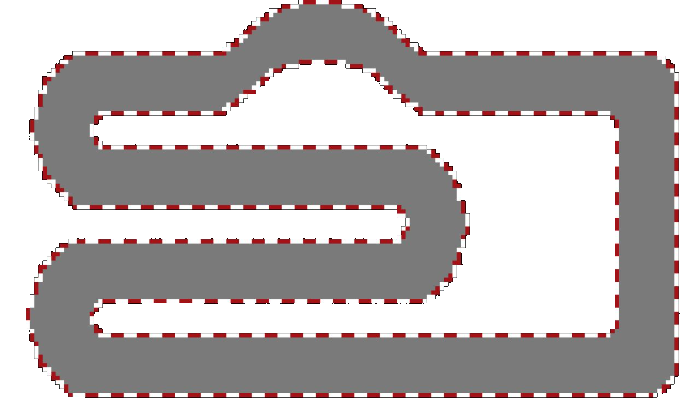
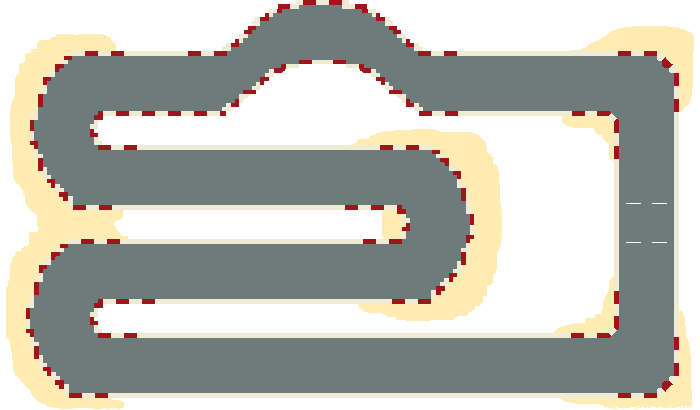
threads implemented and map updates

Changed region(s): [[0.0, 0.0, 1.0, 1.0], [0.12, 0.1463, 0.9, 0.8488]]

diff --git a/Corte 3/race_game_pygame/game_info.py b/Corte 3/race_game_pygame/game_info.py
@@ -1,4 +1,8 @@
-import time
+import time, sys, random, paths
+from player_car import PlayerCar
+from computer_car import ComputerCar
+from settings import *
+from utils import blit_text_center
 
 class GameInfo:
     LEVELS = 3
@@ -7,6 +11,20 @@ class GameInfo:
         self.level = level
         self.started = False
         self.level_start_time = 0
+
+        self.player_car = PlayerCar(CAR1, CAR1_POS, 6,4)
+
+        type_path = random.randint(0,3)
+        self.computer_car = ComputerCar(self, CAR2, CAR2_POS, 2, 4, paths.PATHS_LV1[type_path])
+        self.computer_car.start()
+
+        type_path = random.randint(0,3)
+        self.computer_car2 = ComputerCar(self, CAR3, CAR3_POS, 2, 4, paths.PATHS_LV1[type_path])
+        self.computer_car2.start()
+
+        type_path = random.randint(0,3)
+        self.computer_car3 = ComputerCar(self, CAR4, CAR4_POS, 2, 4, paths.PATHS_LV1[type_path])
+        self.computer_car3.start()
 
     def next_level(self):
         self.level += 1
@@ -28,3 +46,77 @@ class GameInfo:
         if not self.started:
             return 0
         return round(time.time() - self.level_start_time)
+    
+    def draw_player(self):
+        level_text = INFO_FONT.render(f"Level {self.level}", 1, (122, 17, 17))
+        WIN.blit(level_text, (5, 5))
+
+        time_text = INFO_FONT.render(f"Time: {self.get_level_time()}s", 1, (122, 17, 17))
+        WIN.blit(time_text, (5, 40))
+
+        vel_text = INFO_FONT.render(f"Vel: {round(self.player_car.vel)}px/s", 1, (122, 17, 17))
+        WIN.blit(vel_text, (5, 75))
+
+        self.player_car.draw(WIN)
+        self.computer_car.draw(WIN)
+        self.computer_car2.draw(WIN)
+        self.computer_car3.draw(WIN)
+        pygame.display.update()
+
+    def move_player(self):
+        keys = pygame.key.get_pressed()
+        moved = False
+
+        if keys[pygame.K_a]:
+            self.player_car.rotate(left=True)
+        if keys[pygame.K_d]:
+            self.player_car.rotate(right=True)
+        if keys[pygame.K_w]:
+            moved = True
+            self.player_car.move_forward()
+        if keys[pygame.K_s]:
+            moved = True
+            self.player_car.move_backward()
+
+        if not moved:
+            self.player_car.reduce_speed()
+
+    def handle_collision(self):
+        if self.player_car.collide(TRACK_BORDER_MASK) != None:
+            self.player_car.bounce()
+
+        player_finish_poi_collide = self.player_car.collide(FINISH_MASK, *FINISH_POS)
+        if player_finish_poi_collide != None:
+            if player_finish_poi_collide[1] == 0:
+                self.player_car.bounce()
+            else:
+                self.next_level()
+                self.player_car.reset(CAR1_POS)
+                self.computer_car.next_level(self.level, CAR2_POS)
+                self.computer_car2.next_level(self.level, CAR3_POS)
+                self.computer_car3.next_level(self.level, CAR4_POS)
+
+    def computer_wins(self, computer_car, start_pos):
+        computer_finish_poi_collide = computer_car.collide(FINISH_MASK, *FINISH_POS)
+        if computer_finish_poi_collide != None:
+            blit_text_center(WIN, MAIN_FONT, "You lost!")
+            pygame.display.update()
+            pygame.time.wait(5000)
+            self.reset()
+            self.player_car.reset(CAR1_POS)
+            computer_car.reset(start_pos)
+
+    def run(self):
+        self.draw_player()
+        self.move_player()
+        self.computer_car.move()
+        self.computer_car2.move()
+        self.computer_car3.move()
+        self.handle_collision()
+
+        if self.game_finished():
+            blit_text_center(WIN, MAIN_FONT, "You won the game!")
+            pygame.display.update()
+            pygame.time.wait(5000)
+            pygame.quit()
+            sys.exit()

diff --git a/Corte 3/race_game_pygame/computer_car.py b/Corte 3/race_game_pygame/computer_car.py
@@ -1,13 +1,17 @@
-import pygame, math, paths, random
+import pygame, math, paths, random, sys
 from abstract_car import AbstractCar
+from settings import FINISH_MASK, FINISH_POS
+from utils import blit_text_center
 
 class ComputerCar(AbstractCar):
-    def __init__(self, img, start_pos, max_vel, rotation_vel, path=[]):
+    def __init__(self, gi, img, start_pos, max_vel, rotation_vel, path=[]):
         super().__init__(img, start_pos, max_vel, rotation_vel)
         self.path = path
         self.current_point = 0
         self.vel = max_vel
         self.img = img
+        self.game_info = gi
+        self.start_pos = start_pos
 
     def draw_points(self, win):
         for point in self.path:
@@ -49,10 +53,13 @@ class ComputerCar(AbstractCar):
     def move(self):
         if self.current_point >= len(self.path):
             return
-
         self.calculate_angle()
         self.update_path_point()
         super().move()
+
+    def reset(self, start_pos):
+        self.current_point = 0
+        super().reset(start_pos)
 
     def next_level(self, level, start_pos):
         self.reset(start_pos)
@@ -64,3 +71,16 @@ class ComputerCar(AbstractCar):
         if level==3:
             type_path = random.randint(0,3)
             self.path = paths.PATHS_LV3[type_path]
+
+    def run(self):
+        clock = pygame.time.Clock()
+        while True:
+            clock.tick(60)
+            computer_finish_poi_collide = self.collide(FINISH_MASK, *FINISH_POS)
+            if computer_finish_poi_collide != None:
+                self.game_info.computer_wins(self, self.start_pos)
+
+            for event in pygame.event.get():
+                if event.type == pygame.QUIT:
+                    pygame.quit()
+                    sys.exit()

diff --git a/Corte 3/race_game_pygame/run.py b/Corte 3/race_game_pygame/run.py
@@ -1,0 +1,44 @@
+import pygame, sys
+from settings import *
+from game_info import GameInfo
+from utils import blit_text_center
+
+class Game:
+    def __init__(self):
+        pygame.init()
+        self.win = pygame.display.set_mode((WIDTH, HEIGHT))
+        pygame.display.set_caption("Formula UP")
+        pygame.display.set_icon(ICON)
+        self.clock = pygame.time.Clock()
+        self.game_info = GameInfo()
+
+    def run(self):
+        while True:
+            self.clock.tick(FPS)
+
+            for img,pos in images:
+                self.win.blit(img,pos)
+
+            while not self.game_info.started:
+                blit_text_center(self.win, MAIN_FONT, f"Press W key to start level {self.game_info.level}!")
+                pygame.display.update()
+                self.game_info.draw_player()
+                for event in pygame.event.get():
+                    if event.type == pygame.QUIT:
+                        pygame.quit()
+                        sys.exit()
+
+                    keys = pygame.key.get_pressed()
+                    if keys[pygame.K_w]:
+                        self.game_info.start_level()
+        
+            for event in pygame.event.get():
+                if event.type == pygame.QUIT:
+                    pygame.quit()
+                    sys.exit()
+
+            self.game_info.run()
+
+if __name__ == '__main__':
+    game = Game()
+    game.run()

diff --git a/Corte 3/race_game_pygame/settings.py b/Corte 3/race_game_pygame/settings.py
@@ -1,0 +1,33 @@
+from utils import scale_image
+import pygame
+
+ICON = pygame.image.load("imgs/icon.png")
+
+GRASS = scale_image(pygame.image.load("imgs/grass.png"), 6)
+TRACK = scale_image(pygame.image.load("imgs/track.png"), 1.6)
+TRACK_BORDER = scale_image(pygame.image.load("imgs/track-border.png"), 1.6)
+TRACK_BORDER_MASK = pygame.mask.from_surface(TRACK_BORDER)
+
+WIDTH, HEIGHT = GRASS.get_width(), GRASS.get_height()
+WIN = pygame.display.set_mode((WIDTH, HEIGHT))
+
+FPS = 60
+
+FINISH = scale_image(pygame.image.load("imgs/finish.png"), 0.9)
+FINISH_MASK = pygame.mask.from_surface(FINISH)
+FINISH_POS = (960,570)
+
+images = [(GRASS, (0,0)),(TRACK, (-30,120)),(FINISH, FINISH_POS)]
+
+pygame.font.init()
+MAIN_FONT = pygame.font.SysFont("comicsans", 44)
+INFO_FONT = pygame.font.SysFont("standard-block",49)
+
+CAR1 = scale_image(pygame.image.load("imgs/car1.png"), 0.8)
+CAR1_POS = (1017, 510)
+CAR2 = scale_image(pygame.image.load("imgs/car2.png"), 0.8)
+CAR2_POS = (974, 510)
+CAR3 = scale_image(pygame.image.load("imgs/car3.png"), 0.8)
+CAR3_POS = (974, 448)
+CAR4 = scale_image(pygame.image.load("imgs/car3.png"), 0.8)
+CAR4_POS = (1017, 448)

diff --git a/Corte 3/race_game_pygame/abstract_car.py b/Corte 3/race_game_pygame/abstract_car.py
@@ -1,8 +1,9 @@
-import pygame, math
+import pygame, math, threading
 from utils import blit_rotate_center
 
-class AbstractCar:
+class AbstractCar(threading.Thread):
     def __init__(self, img, start_pos, max_vel, rotation_vel):
+        threading.Thread.__init__(self)
         self.max_vel = max_vel
         self.vel = 0
         self.rotation_vel = rotation_vel
@@ -29,6 +30,8 @@ class AbstractCar:
         self.move()
 
     def move(self):
+        if self.vel == 0:
+            self.vel = self.max_vel
         radians = math.radians(self.angle)
         vertical = math.cos(radians) * self.vel
         horizontal = math.sin(radians) * self.vel
